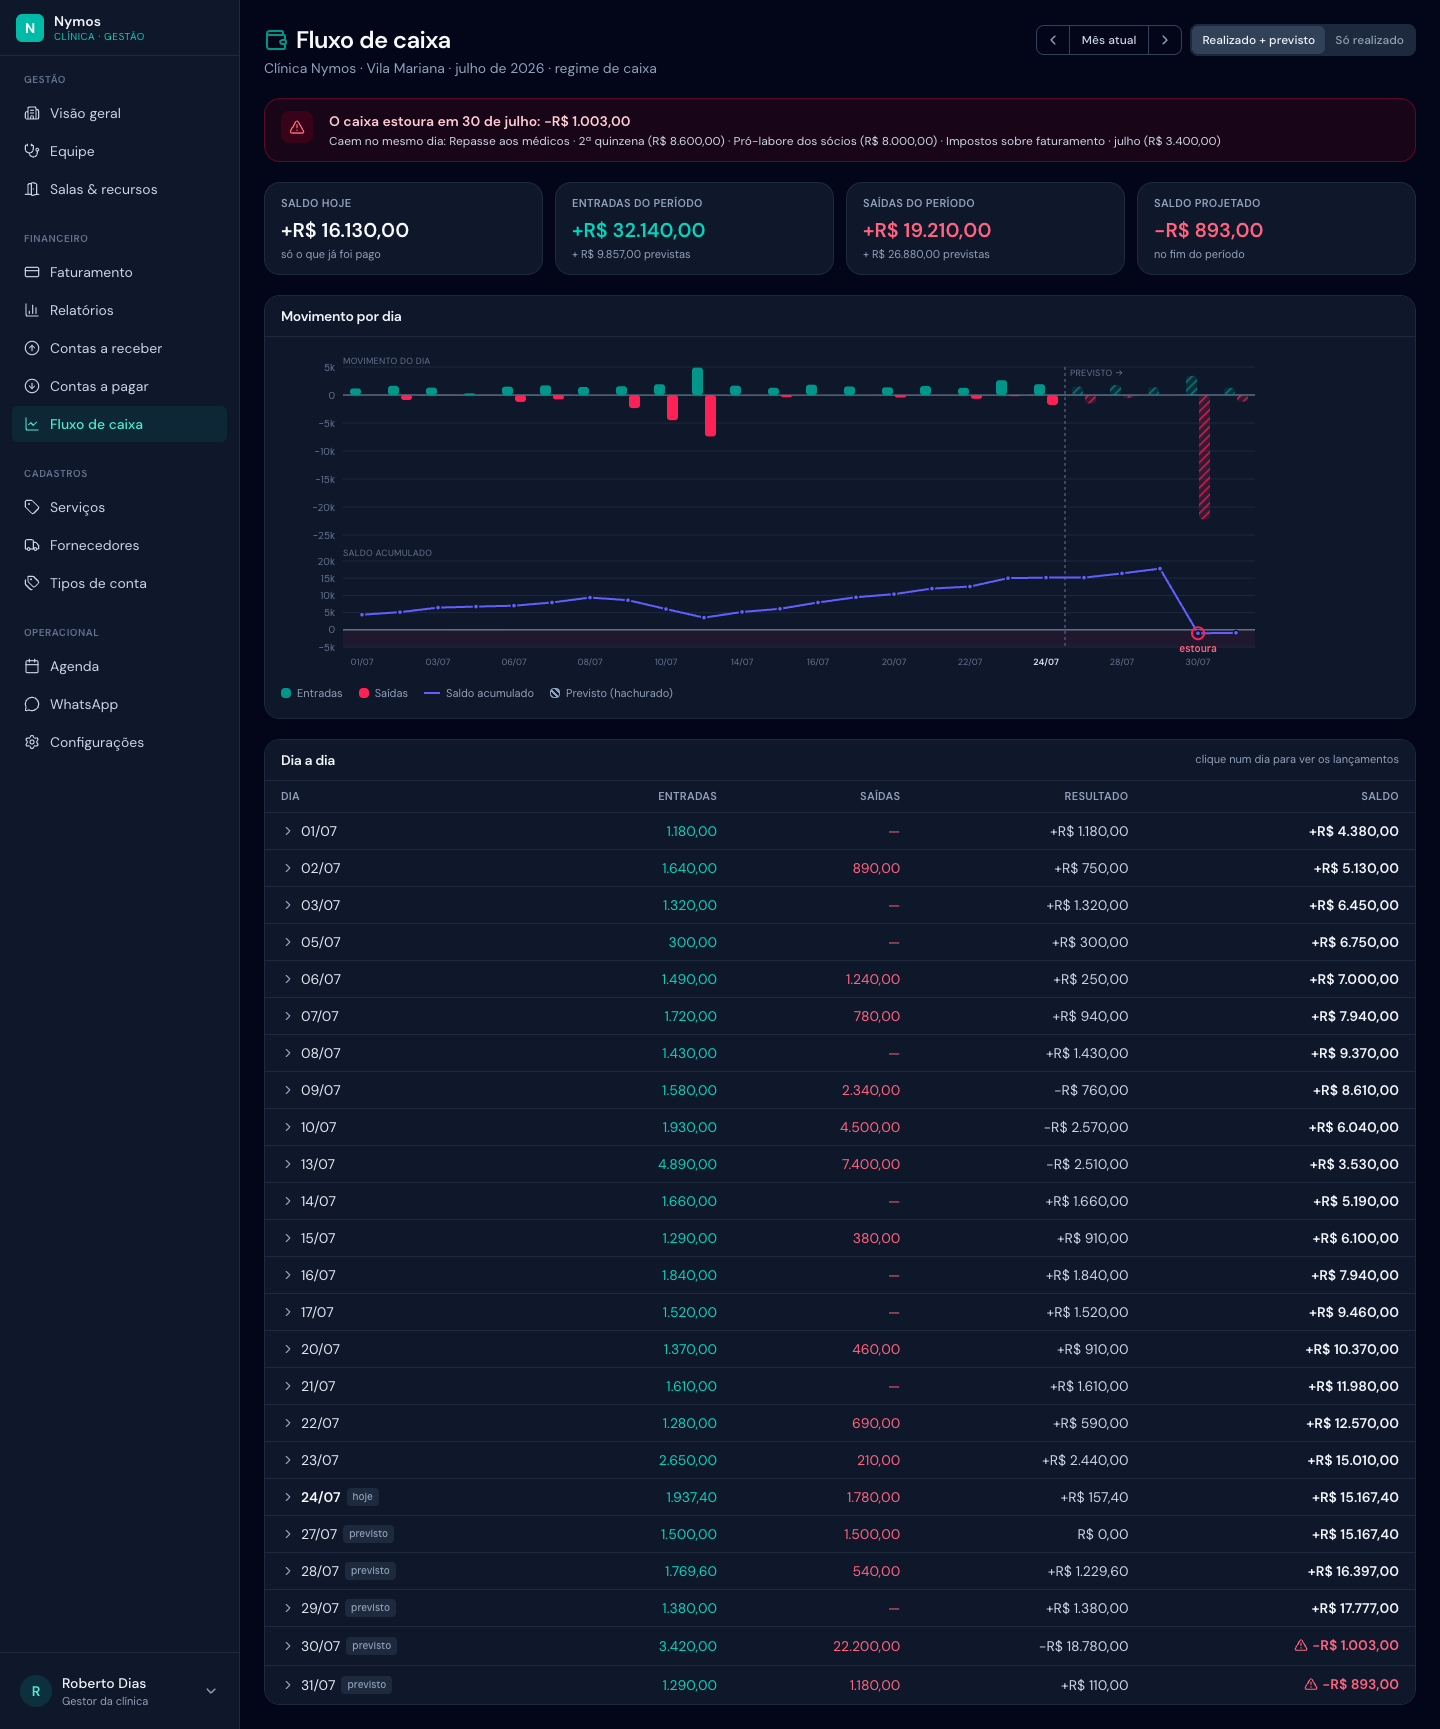
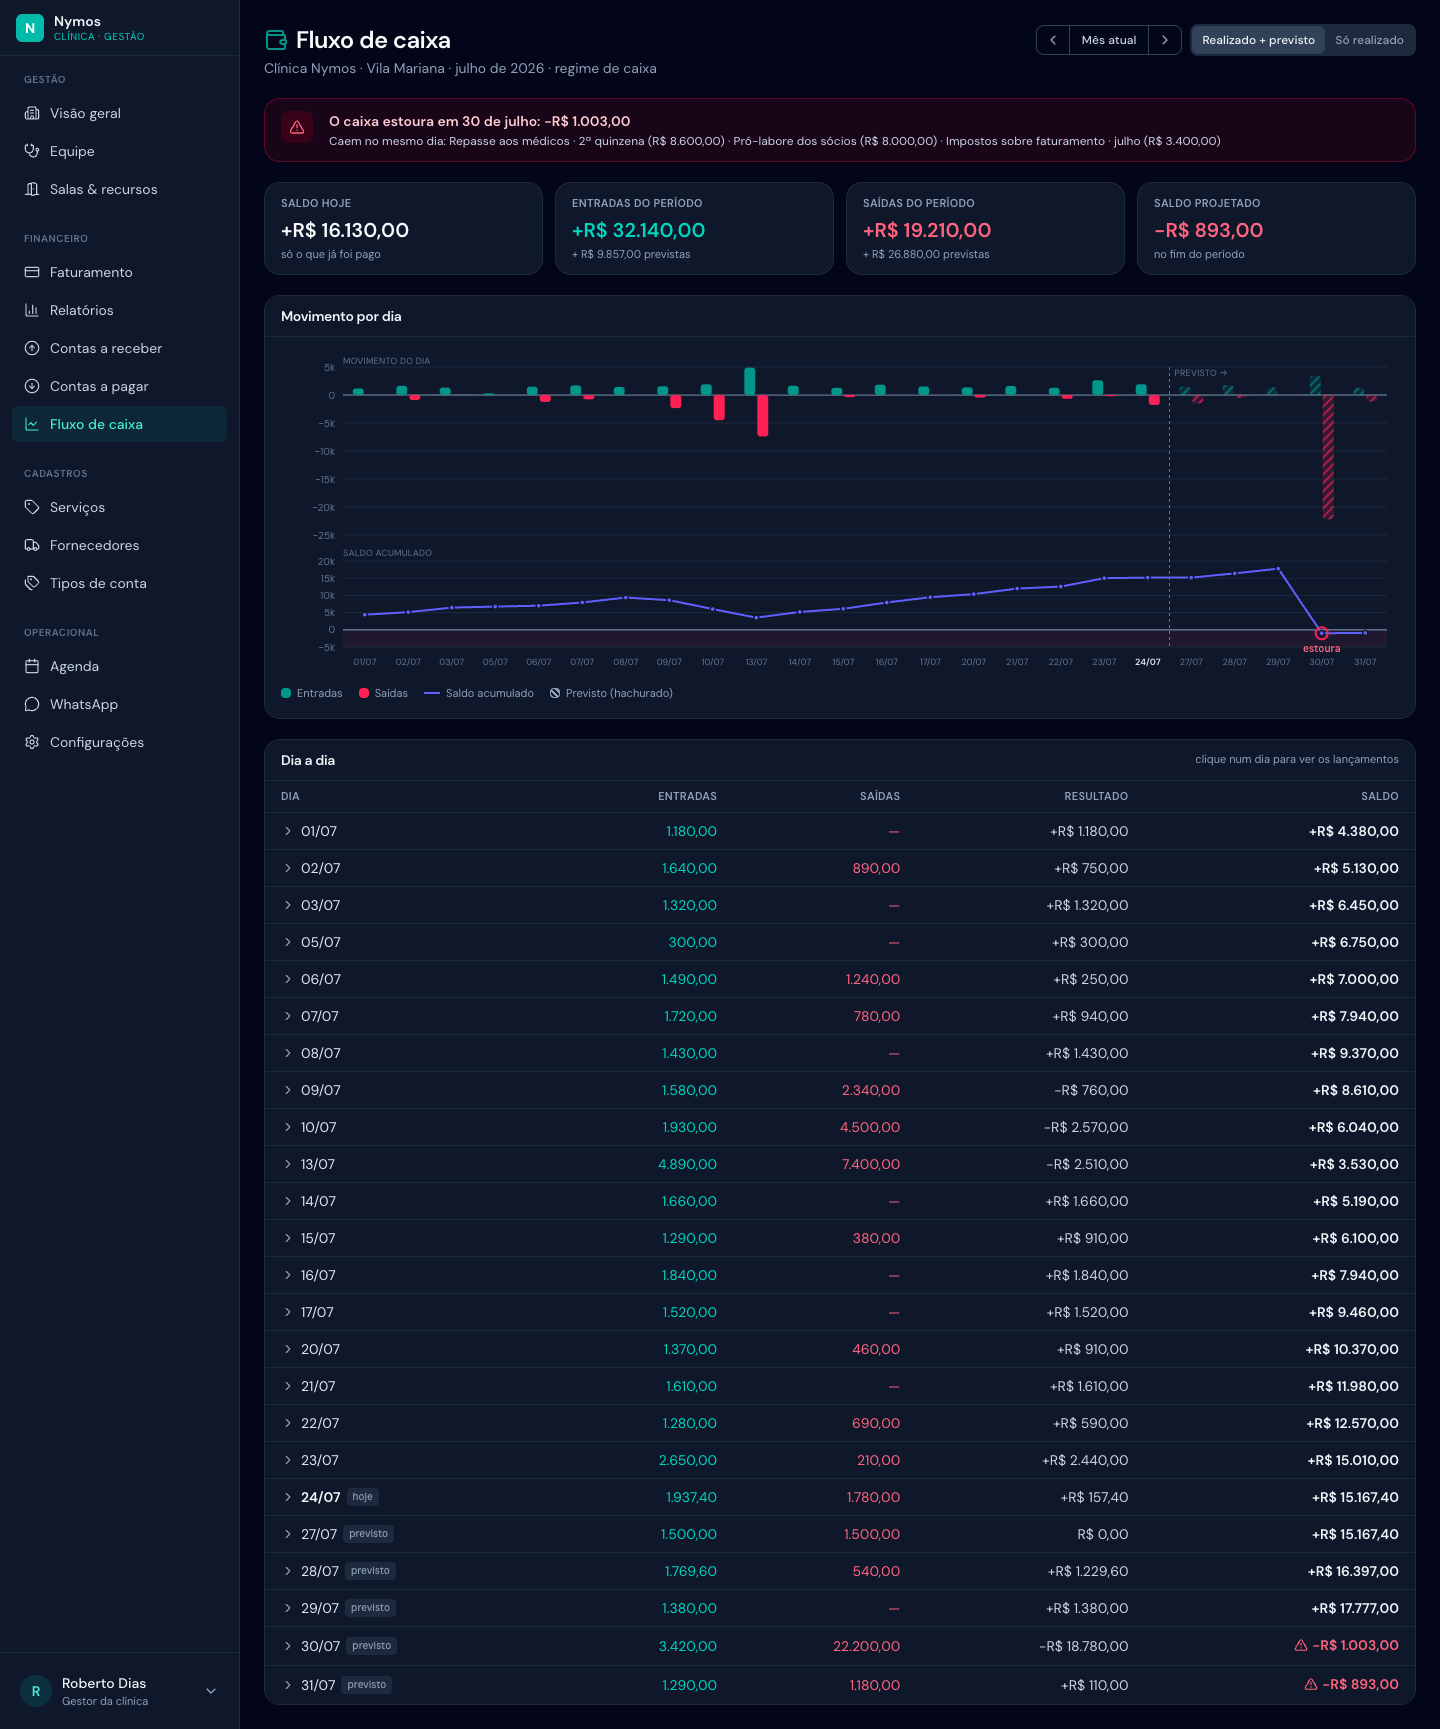
fix(clinic/fluxo-caixa): o gráfico ocupa a largura do card, e continua sendo UM só
O SVG tinha 38px por dia fixos: 986px dentro de um card de 1212px, com ~220px de vão
morto à direita que lia como gráfico que não carregou. Agora um ResizeObserver mede o
card e distribui os dias nele — a 1600/1440/1200 a sobra é exatamente 0. Abaixo do
mínimo legível (30px por dia) ele para de espremer e volta a rolar na horizontal:
medido a 900 e 600, o SVG trava em 794px e o container rola.

Efeito colateral bom: com mais espaço por dia cabe rótulo em TODO dia no eixo X, não
a cada dois.

**Continuam sendo dois painéis num gráfico só, não dois gráficos**, e isso é decisão.
Eles dividem o eixo X, e a leitura que a tela existe para entregar — "no dia 30 saíram
R$ 22 mil, por isso o saldo virou negativo" — depende dos dois estarem alinhados na
mesma vertical. Em cards separados o olho precisa reencontrar a data, e ainda se paga
dois eixos X duplicados e o dobro de altura.

Verificado por CDP em 5 viewports; os testes funcionais seguem passando e o console
fica limpo.

diff --git a/src/sections-clinic/fluxo-caixa/components/GraficoFluxo.tsx b/src/sections-clinic/fluxo-caixa/components/GraficoFluxo.tsx
@@ -1,4 +1,4 @@
-import { useState } from 'react'
+import { useEffect, useRef, useState } from 'react'
 import type { DiaFluxo } from '@/../product-clinic/sections/fluxo-caixa/types'
 import { moeda, moedaComSinal } from './helpers'
 
@@ -8,7 +8,8 @@ interface Props {
   hoje: string
 }
 
-const LARGURA_DIA = 38
+const LARGURA_MIN = 30
+const LARGURA_MAX = 64
 const MARGEM = { topo: 14, esq: 62, dir: 12, base: 26 }
 const H_BARRAS = 168
 const H_SALDO = 86
@@ -34,6 +35,19 @@ function escala(valores: number[], altura: number, topo: number) {
 
 export function GraficoFluxo({ dias, hoje }: Props) {
   const [ativo, setAtivo] = useState<number | null>(null)
+  const caixaRef = useRef<HTMLDivElement>(null)
+  const [larguraCaixa, setLarguraCaixa] = useState(0)
+
+  // Mede o card e distribui os dias nele. Sem isso o SVG tem largura fixa e sobra um vão morto à
+  // direita que parece gráfico quebrado. Assinar o ResizeObserver é ler um sistema externo — não é o
+  // caso de setState-em-effect que a regra proíbe.
+  useEffect(() => {
+    const el = caixaRef.current
+    if (!el) return
+    const obs = new ResizeObserver(([entrada]) => setLarguraCaixa(entrada.contentRect.width))
+    obs.observe(el)
+    return () => obs.disconnect()
+  }, [])
 
   if (dias.length === 0) {
     return (
@@ -47,6 +61,13 @@ export function GraficoFluxo({ dias, hoje }: Props) {
   // R$ 0 a R$ 22 mil; espremer o saldo acumulado no mesmo eixo achatava as barras típicas em 6px e o
   // gráfico deixava de mostrar justamente o que o título promete. Duas escalas no mesmo plot seria
   // pior ainda: inventaria uma correlação que o dado não tem.
+  // Ocupa a linha toda quando cabe; abaixo do mínimo legível, volta a rolar na horizontal.
+  const disponivel = Math.max(0, larguraCaixa - MARGEM.esq - MARGEM.dir)
+  const LARGURA_DIA = Math.min(
+    LARGURA_MAX,
+    Math.max(LARGURA_MIN, disponivel > 0 ? disponivel / dias.length : LARGURA_MIN),
+  )
+
   const topoBarras = MARGEM.topo
   const topoSaldo = MARGEM.topo + H_BARRAS + VAO
 
@@ -74,7 +95,7 @@ export function GraficoFluxo({ dias, hoje }: Props) {
     v === 0 ? '0' : Math.abs(v) >= 1000 ? `${(v / 1000).toLocaleString('pt-BR')}k` : String(v)
 
   return (
-    <div className="relative">
+    <div className="relative" ref={caixaRef}>
       <div className="overflow-x-auto">
         <svg
           width={largura}
@@ -247,7 +268,7 @@ export function GraficoFluxo({ dias, hoje }: Props) {
 
           {/* Eixo X compartilhado — um rótulo a cada dois dias, senão colide */}
           {dias.map((d, i) =>
-            i % 2 === 0 || ativo === i ? (
+            LARGURA_DIA >= 42 || i % 2 === 0 || ativo === i ? (
               <text
                 key={d.data}
                 x={x(i)}
